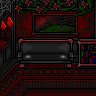
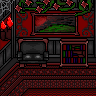
add furnishable/unfurnishable rooms

diff --git a/src/App.js b/src/App.js
@@ -976,6 +976,12 @@ let App = {
 
         this.applySky();
     },
+    isRoomFurnishable(){
+        return App.scene.home.image?.includes('furnishable/');
+    },
+    getFurnishableBackground(backgroundSrc){
+        return backgroundSrc.replace('house/', 'house/furnishable/');
+    },
     getFurnitureDefFromId(id){
         return App.definitions.furniture.find(current => current.id === id);
     },
@@ -986,7 +992,7 @@ let App = {
 
         App.activeFurnitureObjects = [];
 
-        if(removeOnly) return;
+        if(removeOnly || !App.isRoomFurnishable()) return;
 
         furnitureData.forEach(furniture => {
             if(!furniture.isActive) return;
@@ -1031,11 +1037,9 @@ let App = {
                         <div class="control" id="right"><i class="fa fa-angle-right"></i></div>
                     </div>
                     <div class="bottom-container">
-                        <div id="cancel">cancel</div>
-                        <div>
-                            <div class="control" id="down"><i class="fa fa-angle-down"></i></div>
-                        </div>
-                        <div id="apply">apply</div>
+                        <div class="control" id="cancel"><i class="fa fa-times"></i></div>
+                        <div class="control" id="down"><i class="fa fa-angle-down"></i></div>
+                        <div class="control" id="apply"><i class="fa fa-check"></i></div>
                     </div>
                 </div>
             </div>
@@ -1499,6 +1503,26 @@ let App = {
                 {
                     name: `furniture ${App.getBadge()}`,
                     onclick: () => {
+                        if(!App.isRoomFurnishable()){
+                            return App.displayConfirm(`Your room came fully furnished.<br><br>Would you like to remove the default furniture set and customize it?`, [
+                                {
+                                    name: 'yes',
+                                    onclick: () => {
+                                        App.closeAllDisplays();
+                                        Activities.redecorRoom(() => {
+                                            App.handlers.open_active_furniture_list();
+                                        })
+                                        App.scene.home.image = 
+                                            App.getFurnishableBackground(App.scene.home.image);
+                                    }
+                                },
+                                {
+                                    name: 'no',
+                                    onclick: () => {},
+                                    class: 'back-btn',
+                                }
+                            ])
+                        }
                         App.closeAllDisplays();
                         App.handlers.open_active_furniture_list();
                     }
@@ -2728,12 +2752,17 @@ let App = {
             return sliderInstance;
             return App.displayList(list);
         },
-        open_room_background_list: function(){
+        open_room_background_list: function(onlyFurnishables){
             let list = [];
             let sliderInstance;
             let salesDay = App.isSalesDay();
             for(let room of Object.keys(App.definitions.room_background)){
-                let current = App.definitions.room_background[room];
+                const absCurrent = App.definitions.room_background[room];
+                let current = 
+                    onlyFurnishables ?
+                    {...absCurrent, image: App.getFurnishableBackground(absCurrent.image)} :
+                    absCurrent;
+
 
                 // check for unlockables
                 if(current.unlockKey && !App.getRecord(current.unlockKey)){
@@ -2742,7 +2771,9 @@ let App = {
 
                 // 50% off on sales day
                 let price = current.price;
-                if(salesDay) price = Math.round(price / 2);
+                if(onlyFurnishables) price /= 1.5;
+                if(salesDay) price = price / 2;
+                price = Math.round(price);
 
                 const image = App.checkResourceOverride(current.image);
 
@@ -2966,7 +2997,8 @@ let App = {
                                     }
                                 },
                                 {
-                                    name: 'remove from room',
+                                    name: 'remove',
+                                    class: 'back-btn',
                                     onclick: () => {
                                         savedFurniture.def.isActive = false;
                                         App.handleFurnitureSpawn();
@@ -3655,8 +3687,16 @@ let App = {
                 {
                     name: `redécor room ${hasNewDecor ? App.getBadge() : ''}`,
                     onclick: () => {
-                        App.handlers.open_room_background_list(true);
-                        return true;
+                        return App.displayList([
+                            {
+                                name: 'Pre-furnished',
+                                onclick: () => App.handlers.open_room_background_list(),
+                            },
+                            {
+                                name: 'Customizable',
+                                onclick: () => App.handlers.open_room_background_list(true)
+                            }
+                        ])
                     }
                 },
                 {
@@ -4717,5 +4757,5 @@ window.addEventListener('beforeinstallprompt', (e) => {
 
 
 // todo: debug remove later
-App.ownedFurniture = JSON.parse('[{"id":"bookcase_colorful","x":76.79999999999998,"y":24.000000000000007,"isActive":true},{"id":"bookcase_wooden","x":"50%","y":"50%","isActive":false},{"id":"pot_peachy","x":"50%","y":"50%","isActive":false},{"id":"stand_blue","x":"50%","y":"50%","isActive":false},{"id":"stand_rainbow","x":"50%","y":"50%","isActive":false},{"id":"sofa_blue","x":"50%","y":"50%","isActive":false},{"id":"sofa_clood","x":"50%","y":"50%","isActive":false},{"id":"sofa_futura","x":"50%","y":"50%","isActive":false},{"id":"sofa_peachy","x":"50%","y":"50%","isActive":false},{"id":"sofa_pink","x":"50%","y":"50%","isActive":false},{"id":"sofa_rainbow","x":"50%","y":"50%","isActive":false},{"id":"sofa_woodleather","x":"50%","y":"50%","isActive":false}]');
+// App.ownedFurniture = JSON.parse('[{"id":"bookcase_colorful","x":76.79999999999998,"y":24.000000000000007,"isActive":true},{"id":"bookcase_wooden","x":"50%","y":"50%","isActive":false},{"id":"pot_peachy","x":"50%","y":"50%","isActive":false},{"id":"stand_blue","x":"50%","y":"50%","isActive":false},{"id":"stand_rainbow","x":"50%","y":"50%","isActive":false},{"id":"sofa_blue","x":"50%","y":"50%","isActive":false},{"id":"sofa_clood","x":"50%","y":"50%","isActive":false},{"id":"sofa_futura","x":"50%","y":"50%","isActive":false},{"id":"sofa_peachy","x":"50%","y":"50%","isActive":false},{"id":"sofa_pink","x":"50%","y":"50%","isActive":false},{"id":"sofa_rainbow","x":"50%","y":"50%","isActive":false},{"id":"sofa_woodleather","x":"50%","y":"50%","isActive":false}]');
 App.ownedFurniture = JSON.parse('[{"id":"bookcase_colorful","x":76.79999999999998,"y":24.000000000000007,"isActive":true},{"id":"bookcase_wooden","x":50.19999999999999,"y":11.399999999999999,"isActive":true,"z":-9.893460000000001},{"id":"pot_peachy","x":"50%","y":"50%","isActive":false},{"id":"stand_blue","x":69.79999999999998,"y":45.099999999999994,"isActive":true,"z":-9.892990000000001},{"id":"stand_rainbow","x":"50%","y":"50%","isActive":false},{"id":"sofa_blue","x":"50%","y":"50%","isActive":false},{"id":"sofa_clood","x":"50%","y":"50%","isActive":false},{"id":"sofa_futura","x":"50%","y":"50%","isActive":false},{"id":"sofa_peachy","x":"50%","y":"50%","isActive":false},{"id":"sofa_pink","x":"50%","y":"50%","isActive":false},{"id":"sofa_rainbow","x":"50%","y":"50%","isActive":false},{"id":"sofa_woodleather","x":"50%","y":"50%","isActive":false}]');

diff --git a/src/Definitions.js b/src/Definitions.js
@@ -632,12 +632,12 @@ App.definitions = {
     furniture: [
         // right
         {
-            name: 'CLR Bookcase',
+            name: 'CLR bookshelf',
             image: 'resources/img/furniture/bookcase_colorful.png',
             id: "bookcase_colorful",
         },
         {
-            name: 'Wooden Bookcase',
+            name: 'Wooden bookshelf',
             image: 'resources/img/furniture/bookcase_wooden.png',
             id: "bookcase_wooden",
         },
@@ -656,6 +656,38 @@ App.definitions = {
             image: 'resources/img/furniture/stand_rainbow.png',
             id: "stand_rainbow",
         },
+        {
+            name: 'Bear',
+            image: 'resources/img/furniture/bear_gothic.png',
+            id: "bear_gothic",
+        },
+        
+        {
+            name: 'Gothic Bookcase',
+            image: 'resources/img/furniture/bookcase_gothic.png',
+            id: "bookcase_gothic",
+        },
+        {
+            name: 'Broken Heart',
+            image: 'resources/img/furniture/broken_heart_gothic.png',
+            id: "broken_heart_gothic",
+        },
+        {
+            name: 'CLR Cabinet',
+            image: 'resources/img/furniture/cabinet_clr.png',
+            id: "cabinet_clr",
+        },
+        {
+            name: 'Bunny Cake',
+            image: 'resources/img/furniture/cake_gothic.png',
+            id: "cake_gothic",
+        },
+        {
+            name: 'CC Plant',
+            image: 'resources/img/furniture/plant_gothic.png',
+            id: "plant_gothic",
+        },
+
 
         // left
         {
@@ -692,6 +724,11 @@ App.definitions = {
             name: 'Woodleather Sofa',
             image: 'resources/img/furniture/sofa_woodleather.png',
             id: "sofa_woodleather",
+        },
+        {
+            name: 'Gothic Chair',
+            image: 'resources/img/furniture/chair_gothic.png',
+            id: "chair_gothic",
         },
     ],
 

diff --git a/styles.css b/styles.css
@@ -2034,6 +2034,7 @@ a {
     align-items: center;
     justify-content: space-between;
     flex-grow: 1;
+    padding: 4px;
 }
 .directional-control__container .controls-x {
     width: 100%;
@@ -2044,20 +2045,29 @@ a {
     display: inline-flex;
     width: 26px;
     height: 26px;
-    background: #00000061;
+    background: #ffefde;
+    color: #af5b00;
     justify-content: center;
     align-items: center;
     border-radius: 100%;
     cursor: pointer;
+}
+.directional-control__container .control#cancel {
+    color: #3d00ff;
+    background-color: #d1c3ff;
+}
+.directional-control__container .control#apply {
+    background-color: #ff00c6;
+    color: white;
 }
 .directional-control__container .bottom-container {
     width: 100%;
     display: inline-flex;
     justify-content: space-between;
 }
-
 .directional-control__container .bottom-container > * {
-    width: 33%;
+    /* width: 33%; */
     display: inline-flex;
     justify-content: center;
+    align-items: center;
 }

diff --git a/src/Activities.js b/src/Activities.js
@@ -1454,7 +1454,7 @@ class Activities {
             });
         });
     }
-    static redecorRoom(){
+    static redecorRoom(callbackFn){
         App.setScene(App.scene.home);
         App.toggleGameplayControls(false);
         let otherPetDef = new PetDefinition({
@@ -1510,6 +1510,7 @@ class Activities {
                 App.pet.playCheeringAnimationIfTrue(App.pet.hasMoodlet('amused'), () => App.setScene(App.scene.home));
                 App.drawer.removeObject(otherPet);
                 App.toggleGameplayControls(true);
+                callbackFn?.();
             });
         }
 
